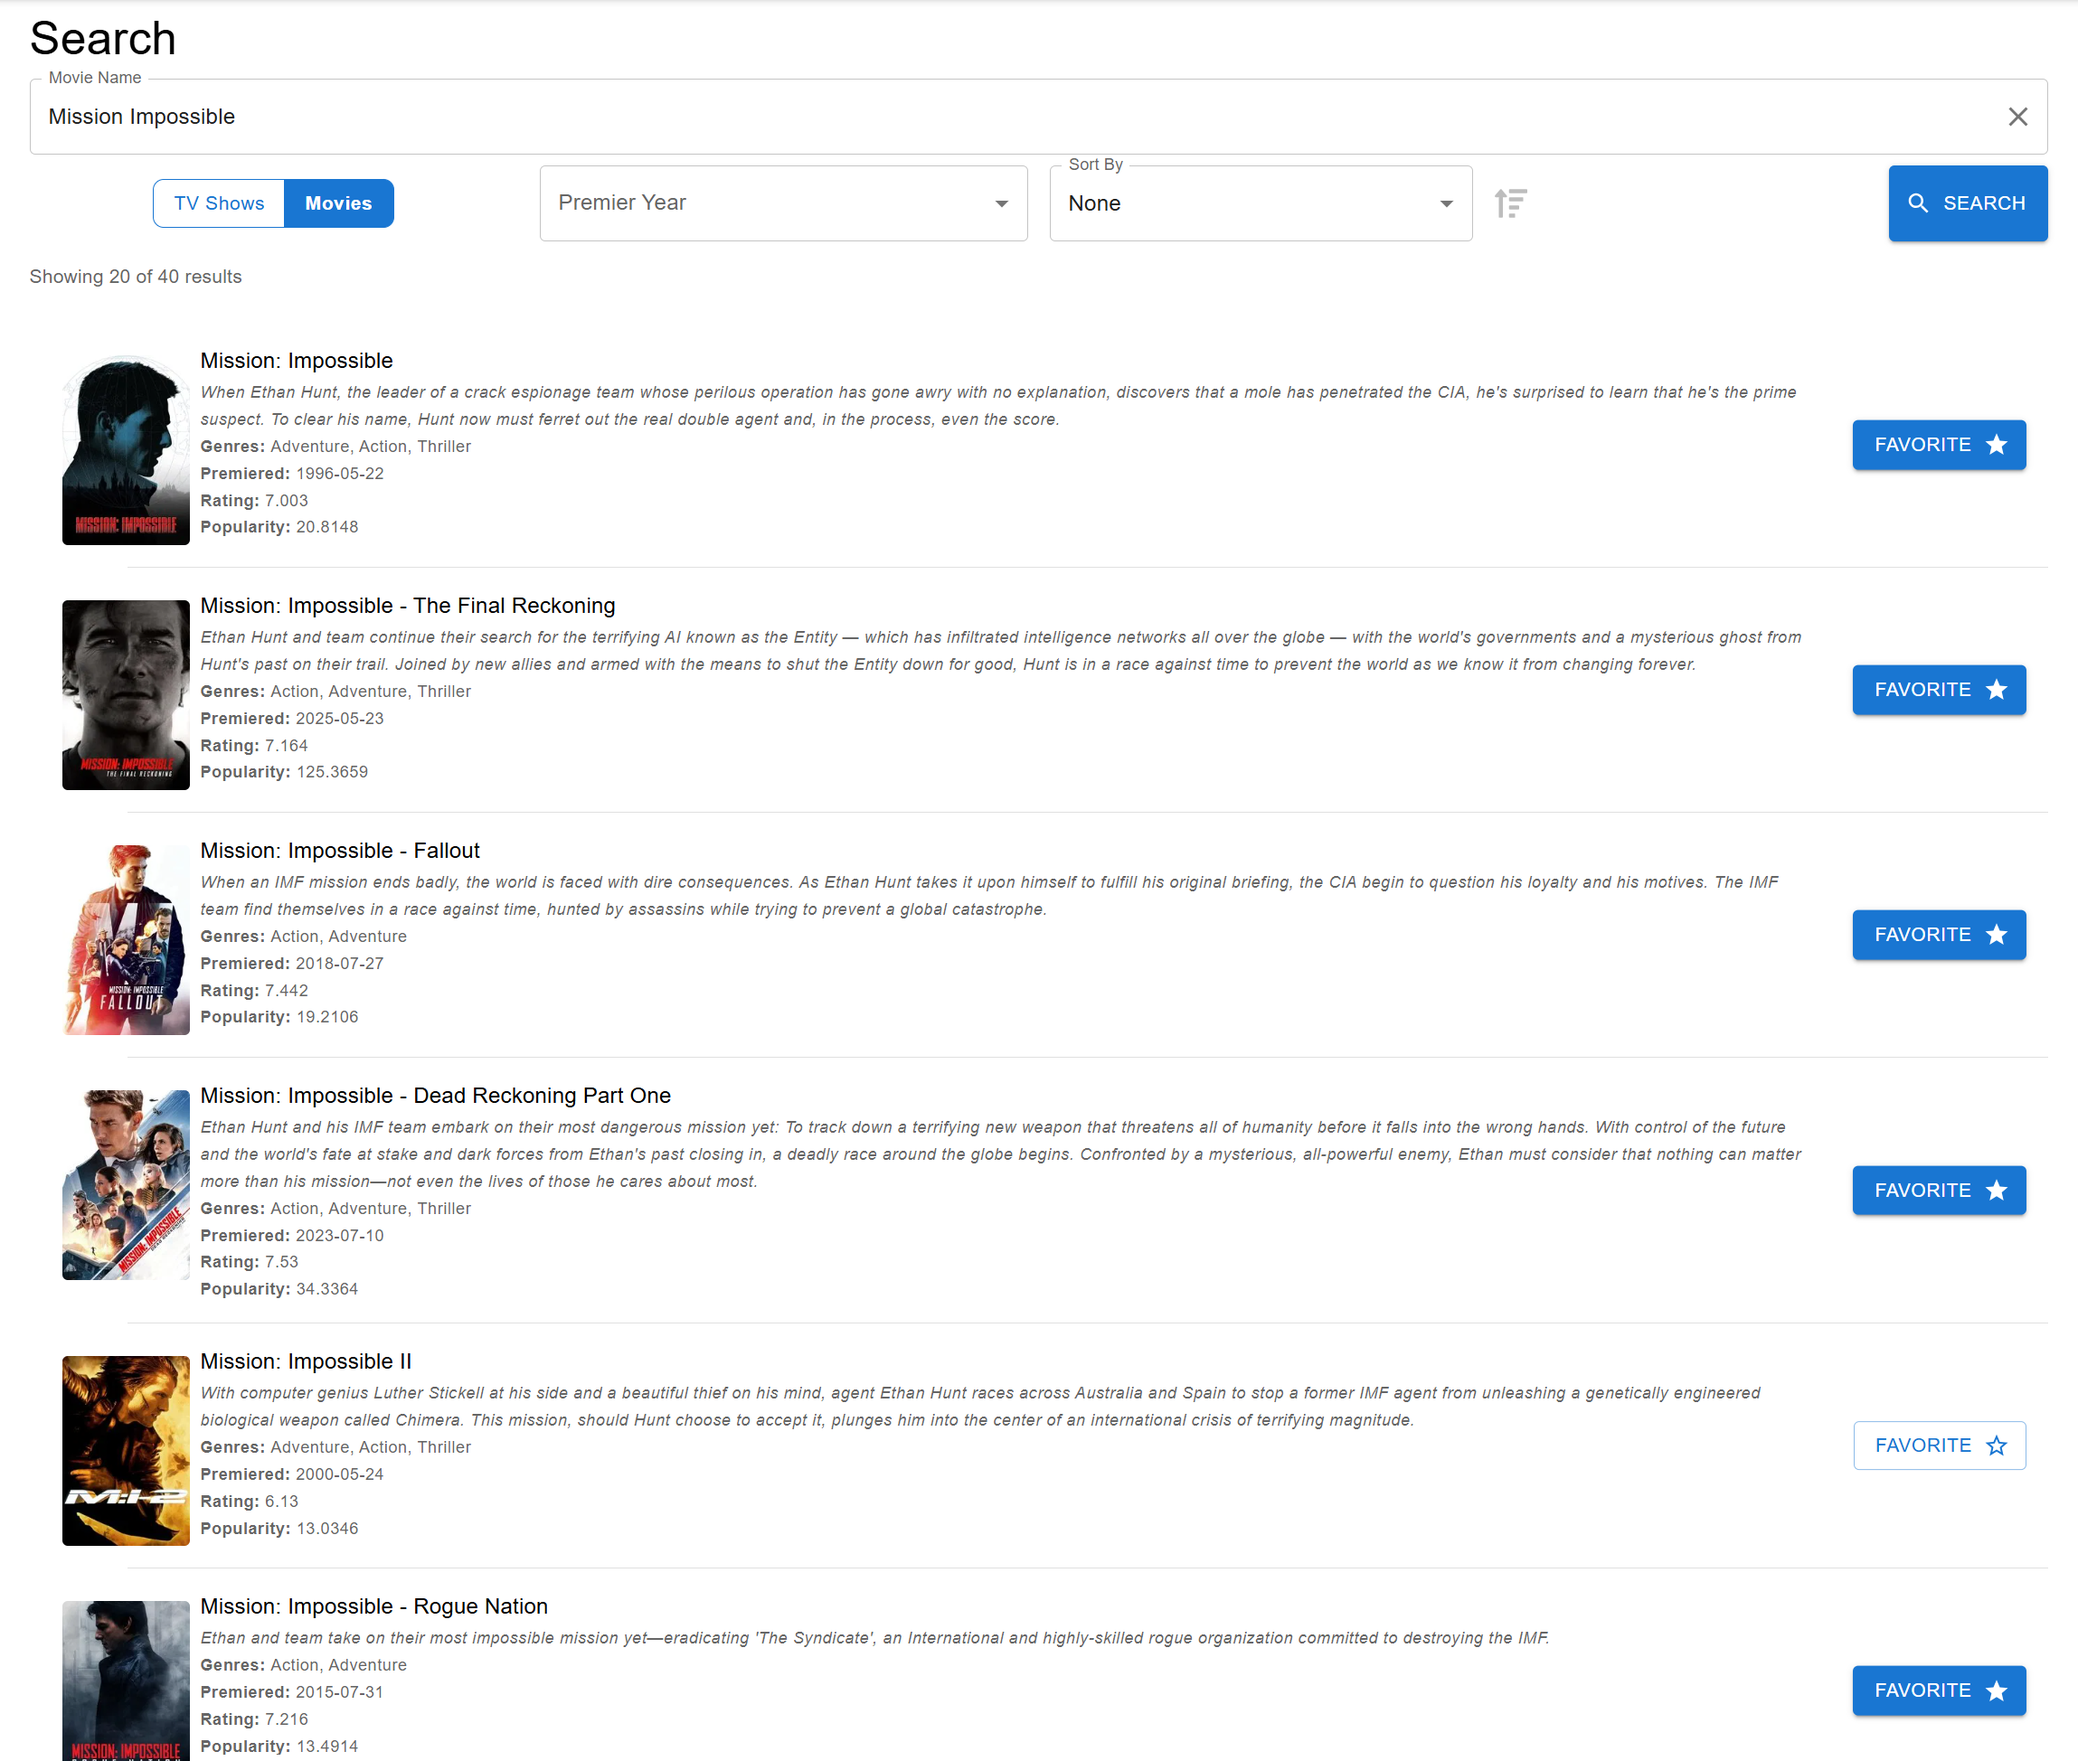
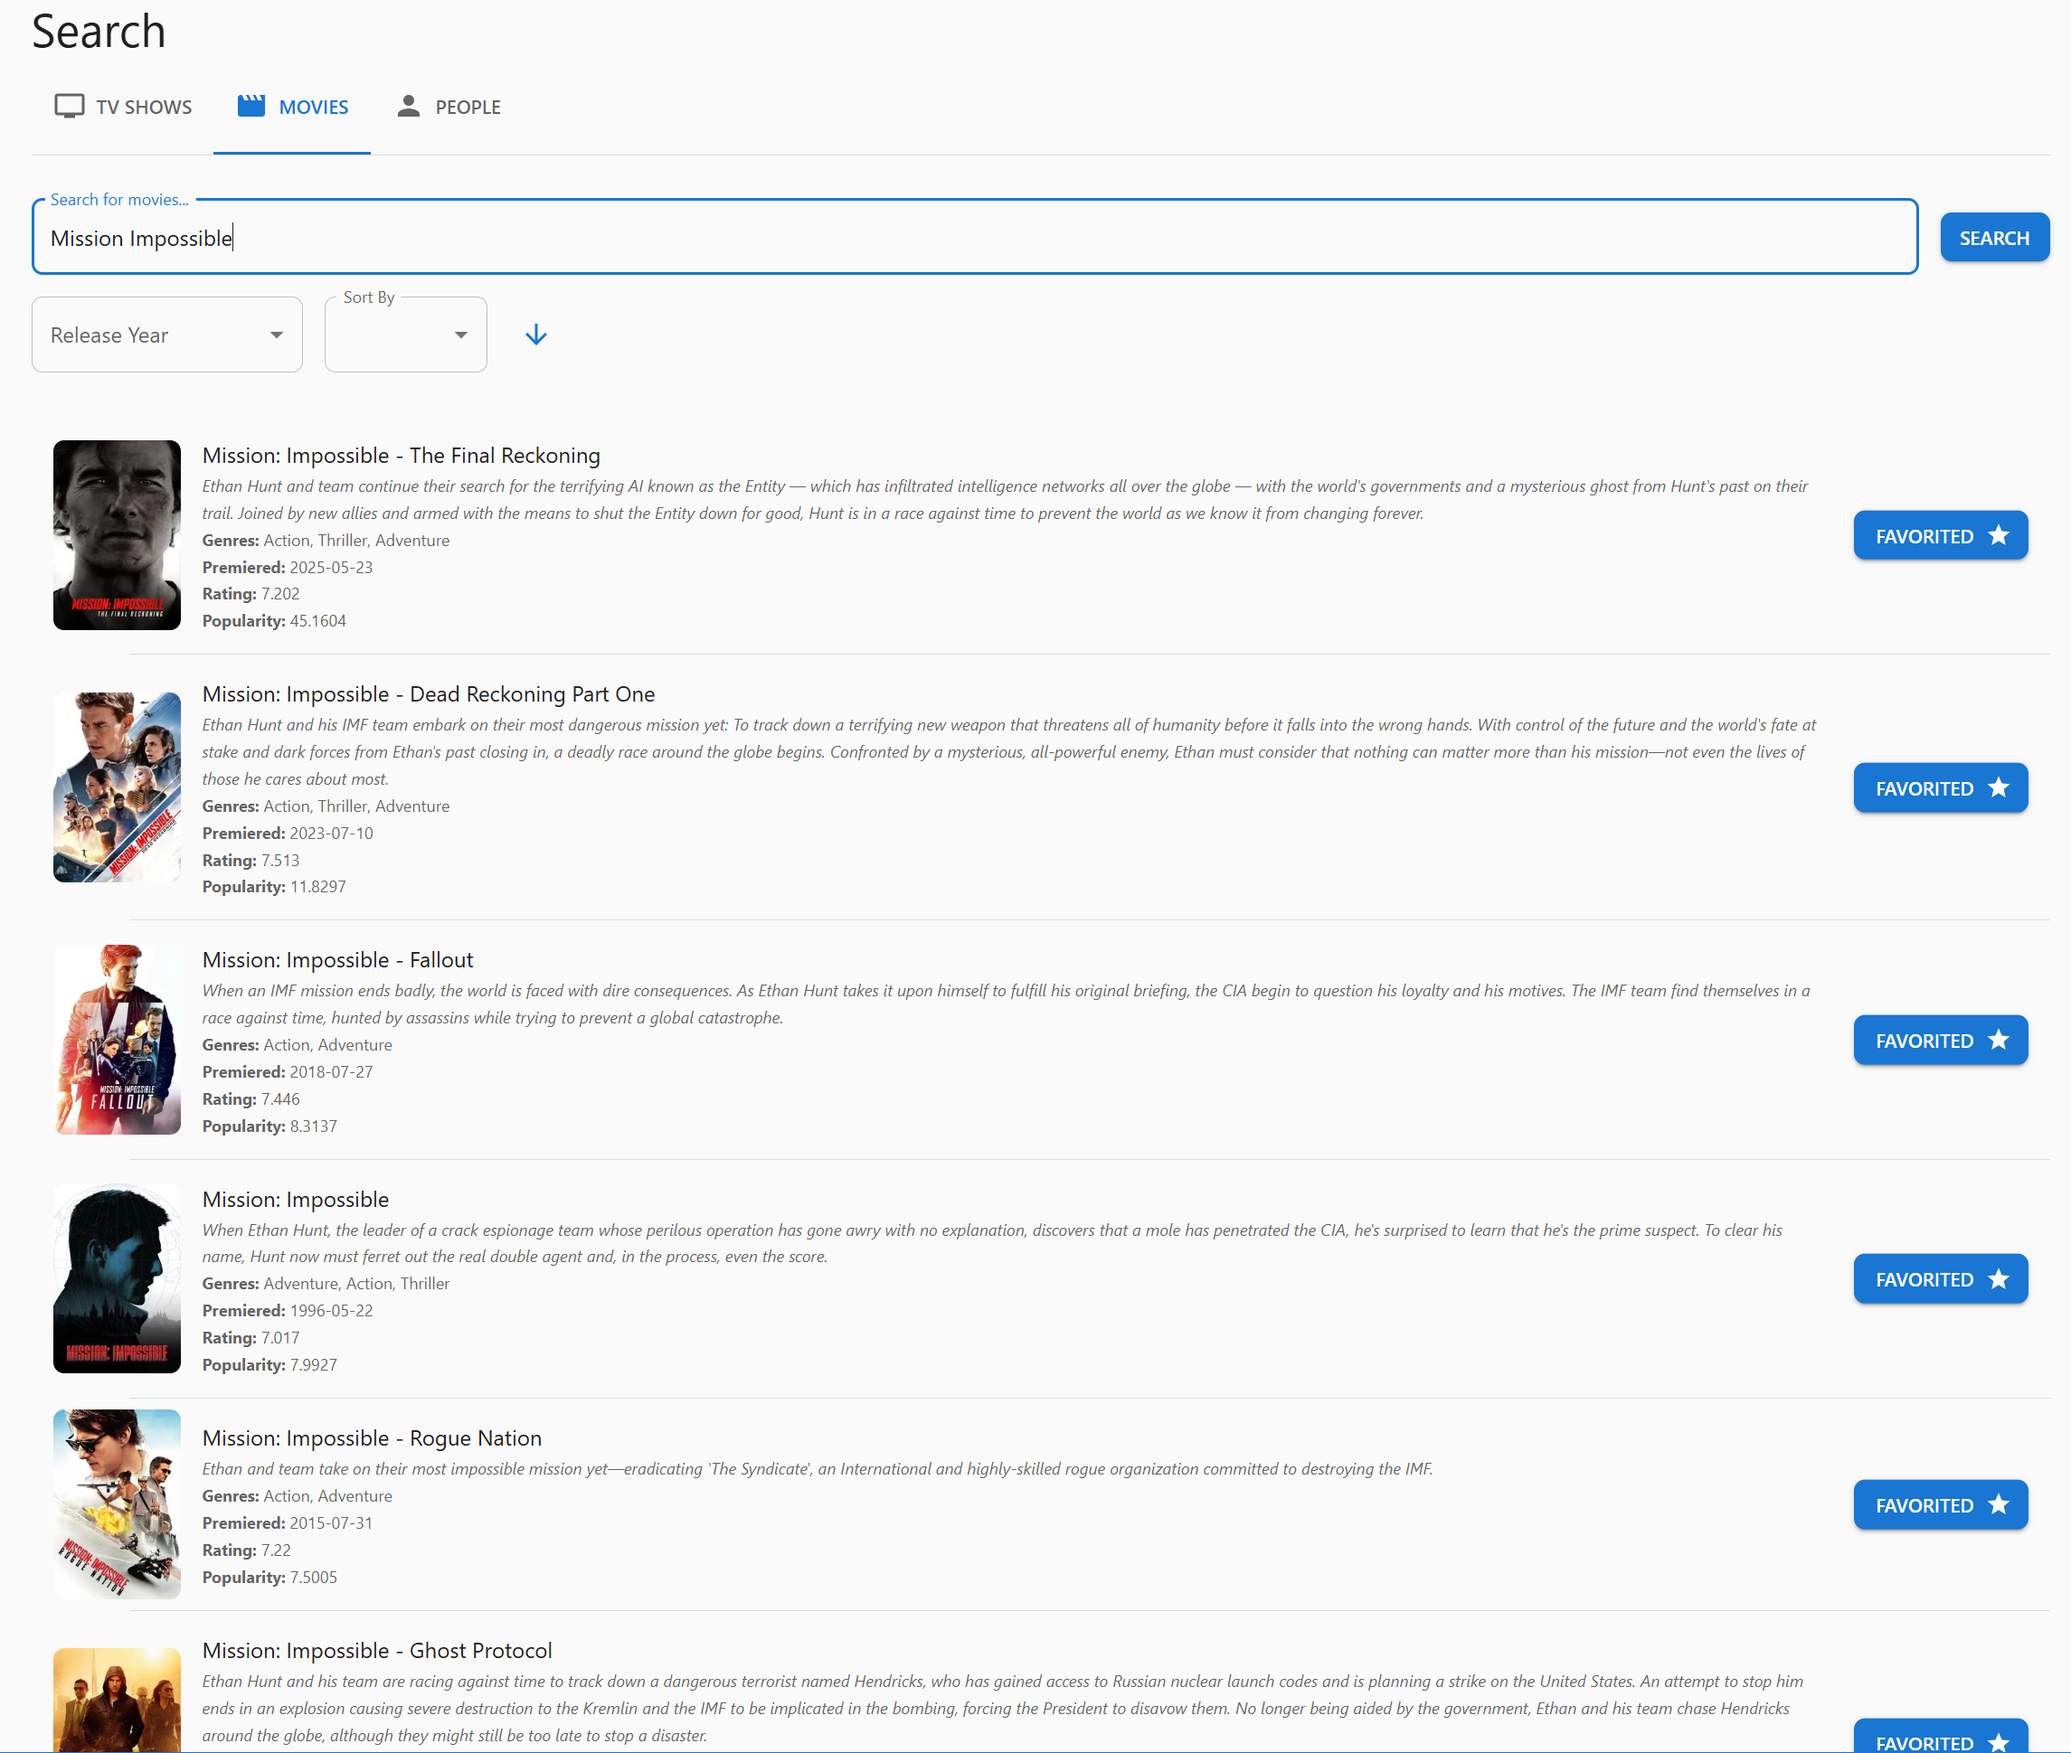
Update search related workflow screenshots

diff --git a/pages/search.md b/pages/search.md
@@ -4,6 +4,8 @@
 
 The Search page is your powerful tool for finding specific shows, movies, and people (actors, directors, cast members). Whether you know exactly what you're looking for or want to explore content from a particular year or genre, the advanced search capabilities help you find precisely what you want to watch.
 
+![Search Screenshot](../images/search/search.png)
+
 ## Overview
 
 The Search page provides comprehensive search functionality with tabbed interfaces:
@@ -20,7 +22,6 @@ The Search page provides comprehensive search functionality with tabbed interfac
 - **Biography information** and career details
 - **Direct links** to shows and movies in their credits
 
-![Search Screenshot](../images/search/search.png)
 
 ## Search Tabs
 
@@ -55,6 +56,9 @@ The TV Shows and Movies tabs provide specialized search for each content type.
 
 The Person Search tab allows you to find actors, directors, writers, and other cast/crew members and explore their complete filmography.
 
+![Search People Screenshot](../images/search/search_people.png)
+![Search People Results Screenshot](../images/search/search_people_results.png)
+
 ### How to Search for People
 
 1. **Select the People Tab**
@@ -70,6 +74,8 @@ The Person Search tab allows you to find actors, directors, writers, and other c
    - A disambiguation dialog will appear with matching people
 
 ### Selecting the Right Person
+
+![Search People Multiple Results Screenshot](../images/search/search_ambiguous_person.png)
 
 When multiple people match your search, you'll see a **disambiguation dialog** with:
 
@@ -120,6 +126,8 @@ If the search system has low confidence in the person selection, you'll see a ba
 - Re-open the disambiguation dialog to select a different person
 - Confirm you have the right person
 
+![Search People Confidence Banner Screenshot](../images/search/search_person_confidence_banner.png)
+
 ### Adding Content from Filmography
 
 You can add any movie or TV show from the person's filmography directly to your favorites:
@@ -142,7 +150,7 @@ Narrow down your search by premiere year:
 
 2. **Combine with Search Terms**
    - Year filtering works alongside your text search
-   - For example: Search "Star" + Year "1977" to find "Star Wars"
+   - For example: Search "Mission" + Year "2023" to find "Mission Impossible: Dead Reckoning Part One"
    - This helps when multiple shows/movies have similar names
 
 ![Search Movies Results Filtered by Year Screenshot](../images/search/search_movie_filtered.png)
